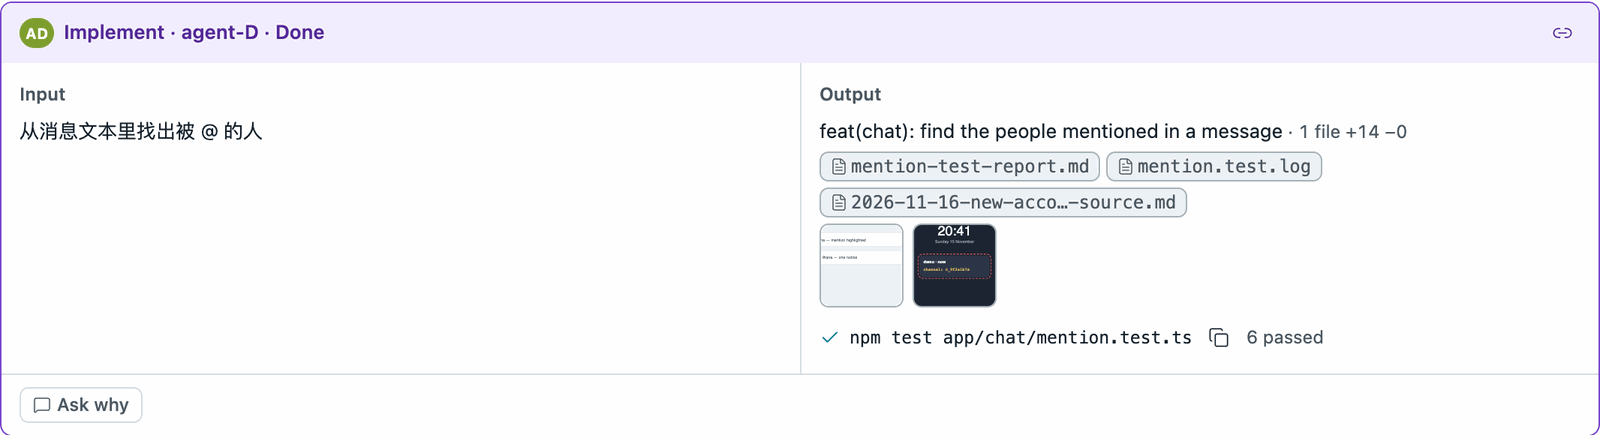
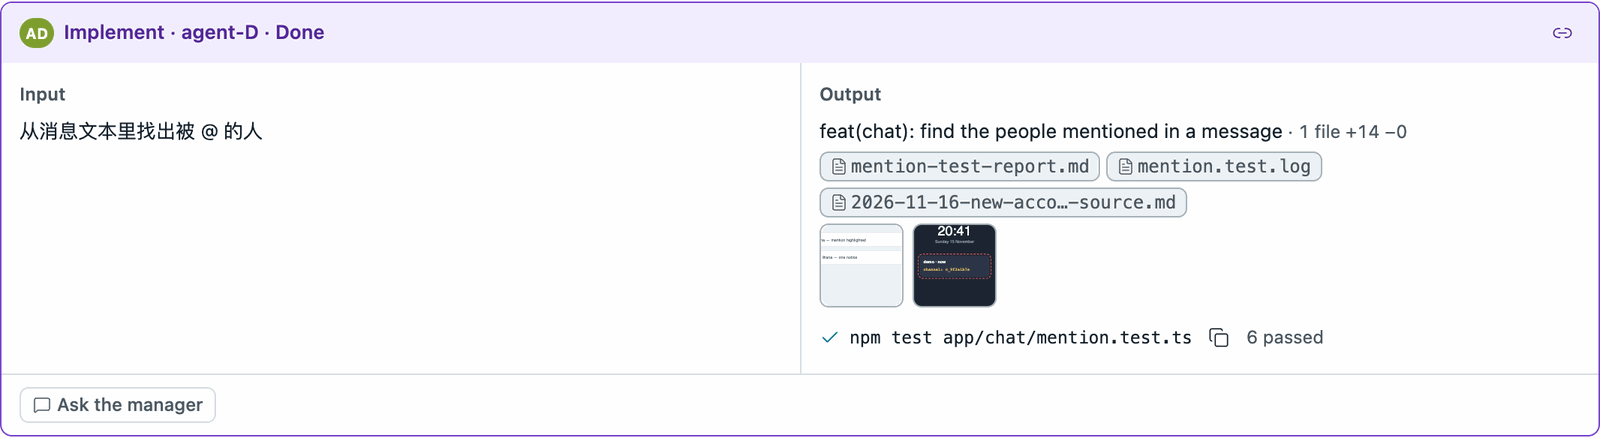
Recipes, documents and pictures for the one conversation
user-message.md: the message points at what the user picked (an example
with it), open it before answering; when the task's agent must answer,
reply at once, workriver ask it without --wait, reply again with its
answer; a blind task waits for its delivery. ask.md: a question always
names a task; --wait blocks, a manager asks without it. CHANGES.md says
so for managers. conversations.md rewritten to the Manager section, past
questions and agents asking each other; attachments.md, activity.md,
navigation.md and DESIGN.md follow. README (en, zh-CN): the detail's
"Ask the manager" paragraph, captions, and five pictures retaken from the
sample (overview, intent page, activity graph, task detail, review).
security.md (en, zh-CN): what a message from the page tells the manager.

Task: u14#7

Changed region(s): [[0.0, 0.8607, 1.0, 1.0]]

diff --git a/docs/design/ui/conversations.md b/docs/design/ui/conversations.md
@@ -1,106 +1,95 @@
-# Conversations: asking why, the manager, agents asking each other
+# Conversations: the manager, past questions, agents asking each other
 
-The side panel's Ask why section: questions about a task or a unit, the files that go with
-them, the conversation with a workspace's manager, and agents' questions to each other.
+The page keeps one conversation: the side panel's **Manager** section, with a workspace's
+manager. What the user has picked and the files they attach go with the message; the
+manager answers itself, or asks the task's agent (`workriver ask`) and replies. Past
+questions (the user's from before i29, agents' to each other) are read in a task's detail.
+`docs/design/one-conversation.md` is the design this follows (i29); before it the section
+was "Ask why", with a temporary agent per question (`DESIGN.md` says where its text went in
+the restructure).
 
-Moved from `DESIGN.md` in phase 7b of the restructure, word for word but for paths
-made whole and "see …" naming the file; `DESIGN.md` is the overview and says where each of
-its sections went.
+## The Manager section
 
-## Asking why
-
-- **Asking why.** There is no "why" button on every element. Asking happens in the side
-  panel's **Ask why** section, as a chat sits beside a pull request's diff: its heading, the
-  picked task's conversations, and at the bottom, fixed, the context chips, the box and the
-  line saying who answers. With no task picked the questions are about the unit as a whole
-  (its chip is the unit's title): a temporary agent answers from the intent's goal, the
-  unit's purpose, its tasks and findings in short, and the code on its branch, and asks none
-  of the unit's agents; the unit's conversations show there. Only the user asks about a
-  unit; agents' `workriver ask` names a task. The intent's own work, with no task picked,
-  says what to pick. The picked task's detail keeps only a
-  small "Ask why" with how many conversations it has; it, "Ask why" on picked lines and `?`
-  open the panel on Ask (the sheet on a narrow screen) with the cursor in the box. What a question is about is the current
-  selection, shown as chips above the box: the task always, the picked finding, and the
-  picked file – or, when lines are picked, the lines instead of their file – and the
-  attachment open in the viewer (see Attachments, `attachments.md`). A single file shows the whole file, or
-  with "Only the changes" just its changes with three lines around each (remembered); the
-  line-number gutter widens to the file's longest number. Lines are
-  picked in any diff, the single file or the list (click a line number, shift-click to
-  stretch); next to them floats "Ask why", like the "+" of a code review. It picks the task
-  that last changed those lines (worked out from the unit's commits; other tasks that
-  changed some of them come along as chips) and puts the cursor in its box, so the code can
-  be asked about with no task picked; lines no task changed are asked about the unit (the
-  task is unpicked). A chip can be left out for this question (its ×).
-  Files go with a question too, any kind (a screenshot, a log, Markdown, a PDF), several at
-  once: dropped anywhere on the Ask panel, pasted into the box, or picked with the small
-  attach button in the box, before Send. The browser never opens a dropped file in the
-  page's place, wherever on the page it is let go: outside what takes files (the Ask panel
-  in its Why mode, a gate's form) the cursor says it cannot be dropped. The box is a text
-  box first: pasted rich text (a spreadsheet's cells, a paragraph) goes in as text and the
-  picture of it that comes along is not attached; a picture copied in a browser ("Copy
-  image": html that is only the picture, no words) is attached; a pasted file is attached, and text of its
-  own beside it goes in too (not text that only names the file). A pasted file with no name
-  is named from its type (pasted.png, pasted.txt). Each shows at once as a chip after the others (the
-  attach glyph, its name, a × that takes it out). As a gate's pictures, the page holds them
-  until the question is sent and they are stored only then, so one taken out is never
-  stored; one over the store's 50 MB is refused at once, in a red line above the box naming
-  it, which goes with its ×, when a chip is taken out, with the next file attached, when the
-  question is sent, or with another task picked. The answering agent is given each file's path in the store (a link, for an agent on
-  another machine). In the conversation they show under the question as attachments do
-  everywhere: pictures as thumbnails, other files as chips, opening in the viewer. Only the
-  user attaches; the manager conversation takes no files.
-  `?` (outside a field) does the same with picked lines, and otherwise opens the panel on
-  Ask; Enter sends, Shift+Enter breaks the line. On a gate – the user's own task – the
-  question goes to the agent that asked for it (the agent of the task the gate follows; with
-  none, the manager bot), so "step 2's curl fails, what now" reaches whoever wrote the
-  steps; its chip is the gate's title. A temporary agent answers
-  from workriver's records and the code; it asks the agent that did the work only when
-  that agent is idle, never one at work, and the answer says quietly whether it did. While
-  it works, the step it is at shows; if none can be started, the turn says why in the
-  user's language (the service's words on hover). An agent that waits for a person in its
-  terminal (a harness's first-run prompt in a folder it has not seen, such as "trust this
-  folder", or a permission prompt) is never typed over and nothing answers the prompt for
-  the user: the question waits, the turn says so in violet ("Waiting for you in Herdr: …
-  needs an answer in its terminal") with "Go to the terminal", the agent is a Blocking row
-  in Needs you like any waiting agent, and the question goes in by itself once the agent is
-  free; still waiting at the question's deadline, it fails saying so. The same holds for
-  follow-ups and for an agent's question to another, which also goes to a temporary agent
-  (never straight to the task's own agent, even an idle one). A new agent the runtime does
-  not take a prompt for yet (still launching) is tried again at each poll (2 s) for up to
-  60 s; still not ready then, it may sit on a prompt the runtime does not report, so it is
-  shown and held exactly like a waiting one above, and the question goes in once it is
-  idle. Never ready by the deadline, the question fails saying so, and its tab is left open
-  for the user (only a start that failed, or an agent that never appeared, closes it). Questions form conversations on the node:
-  question, answer, question, answer, with the box under the last one; follow-ups go to the
-  same temporary agent while it lives (it closes after a quiet while, and a later question
-  starts a new one with the conversation so far). Under a conversation: "Draft conclusion"
-  (its agent writes what was decided, what changes, what stays open; shown at the end, and
-  it starts the note of a waiting gate that follows the task) and "End" (its agent closes);
-  "New question" (beside the chips) starts another conversation. File paths in an answer
-  open the file (the sheet gets out of the way). Each conversation folds to one row
-  (its first question on one line, who asked, how many exchanges, answered / waiting
-  / failed / ended, when last), and one opens at a time: it takes all the height left above
-  the box (at least 12rem), as its own scroll area (a log for screen readers) kept at the
-  latest exchange (it follows a new answer only while the reader is at the bottom); the one
-  just asked in, one still waiting, or else the latest, is open. It reads as a chat: the
-  question on the right on the sunken ground, with who asked ("You", or the asking agent's
-  mark and name) and when; the answer on the left in a thin frame, rendered as Markdown,
-  with who answered and when. Past three conversations only the latest three show, with
-  "N earlier" above them. The box stays under them.
-  **The manager.** A two-way switch in the section's heading, "Why | Manager"
-  (remembered; a request to ask why switches back), opens a conversation with a workspace's
-  manager in the same place, rather than a seventh side section: it is a conversation like
-  the others, with the same box. The workspace is the open unit's intent's, or picked from
-  those with a manager (a select, when there are several). What the user writes is typed
-  into the manager's terminal ("The user writes to you from workriver's page (message m3) …
-  Reply with `workriver reply m3 …`", the text quoted as the user's); a manager waiting for a
+- **Where.** One section of the side panel, **Manager** (the speech-bubble button, the
+  last), in the same place as the others; no switch in its heading. The workspace is the
+  open unit's intent's, or picked from those with a manager (a select, when there are
+  several; Needs you's unread messages and an intent's "Write to the manager" open the
+  section on a workspace). Its messages read as a chat, at the bottom, fixed: the chips, the
+  box, and the line saying where it goes.
+- **What the user writes** is typed into the manager's terminal ("The user writes to you
+  from workriver's page (message m3) … Reply with `workriver reply m3 …`", what it points
+  at in workriver's words, then the user's text quoted as theirs); a manager waiting for a
   person in its terminal is never typed over: the message waits, says so in violet with "Go
   to the terminal", and goes in once it is free. Under each message where it is (sending,
   waiting, in the manager's terminal, or not delivered and why); the manager's replies
   (only that manager may reply) follow it on the left with its crown. With no manager
-  running in the workspace the box is disabled and says so.
-  Agents ask each other the same way, through workriver (never in each other's terminals):
-  their conversations show on the task asked about like the user's, with the asking agent's
-  mark before the question, and count in the node's speech-bubble mark; they never appear in
-  Needs you. A node with questions carries a small
-  neutral speech-bubble mark with their count on the graph: information, not a button.
+  running in the workspace the box is disabled and says so. A manager on a blind task in
+  progress is not written to: the service refuses the message until it delivers.
+- **What is picked goes with it, as chips** above the box: the unit (its title), the picked
+  task (its number, a gate's title, a review's label), the picked finding, the picked file –
+  or, when lines are picked, the lines instead of their file – the other tasks that changed
+  those lines, and the attachment open in the viewer (`attachments.md`). Only to the open
+  unit's intent's workspace: with another workspace picked in the select, no chips show and
+  none are sent. Every chip has a ×. Taking out the task's chip takes with it what needs the
+  task (the finding, the file or lines, the other tasks, the open attachment); taking out
+  the unit's leaves no chip; the user's own files stay. A chip left out stays out until the
+  selection changes. A gate is a chip like any task: the manager relays to whoever wrote its
+  steps.
+- **How the box is reached.** The picked task's detail keeps only a small "Ask the
+  manager"; it, "Ask the manager" floating by picked lines, the viewer's "Ask the manager"
+  and `?` (outside a field) open the panel on Manager (the sheet on a narrow screen), on the
+  unit's own workspace, with the cursor in the box. Lines are picked in any diff, the single
+  file or the list (click a line number, shift-click to stretch); next to them floats "Ask
+  the manager", like the "+" of a code review. It picks the task that last changed those
+  lines (worked out from the unit's commits; other tasks that changed some of them come
+  along as chips, so the manager knows who wrote them); lines no task changed go with the
+  unit's chip (the task is unpicked). `?` with lines picked does the same; otherwise it only
+  brings the cursor. A single file shows the whole file, or with "Only the changes" just its
+  changes with three lines around each (remembered); the line-number gutter widens to the
+  file's longest number. Enter sends, Shift+Enter breaks the line.
+- **Files** go with a message too, any kind (a screenshot, a log, Markdown, a PDF), several
+  at once: dropped anywhere on the Manager panel, pasted into the box, or picked with the
+  small attach button in the box, before Send; to any workspace's manager (they need no
+  unit). The browser never opens a dropped file in the page's place, wherever on the page
+  it is let go: outside what takes files (the Manager panel, a gate's form) the cursor says
+  it cannot be dropped. The box is a text box first: pasted rich text (a spreadsheet's
+  cells, a paragraph) goes in as text and the picture of it that comes along is not
+  attached; a picture copied in a browser ("Copy image": html that is only the picture, no
+  words) is attached; a pasted file is attached, and text of its own beside it goes in too
+  (not text that only names the file). A pasted file with no name is named from its type
+  (pasted.png, pasted.txt). Each shows at once as a chip after the others (the attach
+  glyph, its name, a × that takes it out). As a gate's pictures, the page holds them until
+  the message is sent and they are stored only then, so one taken out is never stored; one
+  over the store's 50 MB is refused at once, in a red line above the box naming it, which
+  goes with its ×, when a chip is taken out, with the next file attached, or when the
+  message is sent. The manager is given each file's path in the store (a command that
+  fetches it, for a manager on another machine).
+- **Under the sent message** what it pointed at shows as a turn did: its unit or task and
+  the other chips, then the files as attachments show everywhere: pictures as thumbnails,
+  other files as chips, opening in the viewer.
+
+## Past questions
+
+- **In a task's detail**, after Output, a **Questions** block with how many conversations:
+  each folds to one row (its first question on one line, who asked, how many exchanges,
+  answered / waiting / failed / ended, when last); one opens at a time, as a chat: the
+  question on the right on the sunken ground, with who asked ("You", or the asking agent's
+  mark and name) and when, its chips and files; the answer on the left in a thin frame,
+  rendered as Markdown, with who answered and when; a conclusion where it was drawn. File
+  paths in an answer open the file (the sheet gets out of the way). Past three
+  conversations only the latest three show, with "N earlier" above them. Read-only: no box,
+  no "Draft conclusion", no "End"; a question still waiting shows how far it has got, and
+  its agent waiting for a person in its terminal shows in violet with "Go to the terminal".
+- **The unit's own** (questions the user asked about a whole unit before i29): the same
+  block under the graph when no task is picked, only when the unit has any.
+
+## Agents asking each other
+
+- Agents ask each other through workriver (`workriver ask`, never in each other's
+  terminals); a temporary agent answers from the records and the code, and asks the task's
+  own agent only while that one is idle; it closes after a quiet while (`prompts::IDLE`) and
+  a later question starts a new one with the conversation so far. Their conversations show
+  in the asked task's Questions block, with the asking agent's mark before the question,
+  and count in the node's speech-bubble mark; they never appear in Needs you. A node with
+  questions carries a small neutral speech-bubble mark with their count on the graph:
+  information, not a button.

diff --git a/README.md b/README.md
@@ -87,17 +87,19 @@ folders that nothing before it on its line had touched: there the work grew in s
 long graph opens on its latest work, with a minimap of the whole; zoomed out, as here, all
 of it shows.
 
-![The activity graph of the unit "加一个 @ 功能": implement tasks, the security and code reviews after them, the tasks the code review's findings led to, two marked where the scope grew, a dropped question to merge, and a try-out gate near the end](docs/images/activity-graph.en.png)
+![The activity graph of the unit "加一个 @ 功能": implement tasks, the security and code reviews after them, the tasks the code review's findings led to, two marked where the scope grew, a dropped question to merge, a try-out gate near the end, and under the graph an earlier question about the unit](docs/images/activity-graph.en.png)
 
 **Why a node is the way it is.** Pick a node and its detail says what went in and what came
 out. Task #1 was asked to find the people mentioned in a message; it delivered the commit
 "feat(chat): find the people mentioned in a message", its reports and screenshots, and a
 check, `npm test app/chat/mention.test.ts`, 6 passed. Evidence is recorded the same way
-whoever ran it. "Ask why" opens a question in the side panel: a temporary agent answers
-from the records and the code, and asks the agent that did the work only while that agent
-is idle. With no node picked, the question is about the whole unit.
+whoever ran it. "Ask the manager" opens the conversation with the intent's manager in the
+side panel, with the task as a chip; picked lines, a finding or an open screenshot go along
+as chips too, and so do files you drop or paste. The manager answers, or asks the agent that
+did the work and passes its answer on. Earlier questions about a task stay readable in its
+detail.
 
-![The detail of task #1: its input, its output with the commit, attachments and a passed check, and Ask why](docs/images/task-detail.en.png)
+![The detail of task #1: its input, its output with the commit, attachments and a passed check, and Ask the manager](docs/images/task-detail.en.png)
 
 **Findings, decided once.** The code review of #6 found nine problems, rated P1 to P3. Each
 is accepted, revised (accepted, but fixed your way), rejected or deferred. By default the
@@ -109,7 +111,7 @@ what is still open waits for you: P2-4 and P3-1, each with the reviewer's sugges
 decision goes to the manager, and an accepted finding stays visible on the tasks it caused,
 since that work must meet it.
 
-![The code review of task #6: nine findings grouped by severity, P2-4 open with the reviewer's suggestion, its impact and place and the four decisions, others accepted with the tasks they led to, decided by the manager, rejected or deferred](docs/images/review-findings.en.png)
+![The code review of task #6: nine findings grouped by severity, P2-4 open with the reviewer's suggestion, its impact and place and the four decisions, others accepted with the tasks they led to, decided by the manager, rejected or deferred, and an earlier question about the review](docs/images/review-findings.en.png)
 
 **What is waiting on you.** Needs you is one queue across every workspace. First what
 blocks someone: agents waiting for a person in their terminal, workers that stopped

diff --git a/docs/design/ui/attachments.md b/docs/design/ui/attachments.md
@@ -1,7 +1,7 @@
 # Attachments and the viewer
 
-Files from agents and how they show and open. Files the user sends with a question are in
-`conversations.md` (Asking why); pictures in a gate's form are in `activity.md` (What the
+Files from agents and how they show and open. Files the user sends with a message to the
+manager are in `conversations.md` (The Manager section); pictures in a gate's form are in `activity.md` (What the
 user puts in).
 
 Moved from `DESIGN.md` in phase 7b of the restructure, word for word but for paths
@@ -18,7 +18,7 @@ its sections went.
   The viewer shows one place's previewable attachments one at a time, in their order: the
   name (mono) as its title, "2 / 5" with previous / next (← and → too, wrapping round; the
   position and name are read out), for a picture the zoom toggle and "open original",
-  "Ask why", and a download button for every file. Markdown is rendered (tables, code,
+  "Ask the manager", and a download button for every file. Markdown is rendered (tables, code,
   links) by react-markdown with remark-gfm, loaded only when one is shown (49 kB gzip,
   against 24 kB for marked + DOMPurify: chosen because it never puts an HTML string into
   the page, and the text is an agent's): raw HTML is dropped, links open in a new tab with
@@ -29,10 +29,11 @@ its sections went.
   panel (open or folded), so the side panel stays in use; a click outside leaves it open, and
   Escape closes it unless typed in a field outside it. Focus starts in the file (↑ ↓ scroll)
   and goes back to the thumbnail or chip on close. On a narrow screen it covers the page,
-  and its "Ask why" opens the Ask sheet over it; closing the sheet comes back to it.
-  While it shows a stored attachment, the ask box carries it as a chip (the attachment's
-  name) next to the task's; the question then points at it, and the temporary agent is given
-  its path in the store (a link through the tunnel on another machine). A question may point
-  only at an attachment shown with its task (its output, checks, findings and what was added
-  to them, and the findings it answers – but not those for a blind task not yet delivered);
-  the service refuses any other.
+  and its "Ask the manager" opens the Manager sheet over it; closing the sheet comes back to it.
+  While it shows a stored attachment, the Manager box carries it as a chip (the attachment's
+  name) next to the task's; the message then points at it, and the manager is given its
+  path in the store (a command that fetches it, on another machine). A message may point
+  only at an attachment shown with its task (with the unit alone, with one of its tasks: its
+  output, checks, findings and what was added to them, and the findings it answers – but
+  not those for a blind task not yet delivered), or at a file the user stored; the service
+  refuses any other. Agents' questions to each other follow the same rule.

diff --git a/skills/workriver-howto/references/communication/user-message.md b/skills/workriver-howto/references/communication/user-message.md
@@ -2,11 +2,34 @@
 
 **When:** you are a manager and a message like this arrives in your terminal:
 
-    [workriver] The user writes to you from workriver's page (message m3, about intent i2 "Search"). Reply with `workriver reply m3 --text "..."`; ... The user says, in workriver: «Pause u2 until the API settles.»
+    [workriver] The user writes to you from workriver's page (message m3, about intent i2 "Search"). Reply with `workriver reply m3 --text "..."`; the user reads replies there, not in this terminal. It points at: task u1#3 "Paging" (implement, by worker-2); task u1#5 "Cursor" (implement, by worker-4); finding P2-1; lines 10-24 of src/api.ts; the attachment "shot.png" at ~/workriver-data/attachments/9f2c….png. The files are in ~/src/search.worktrees/u1 on branch feat/paging (from main). Details: `workriver task show u1#3`. The user says, in workriver: «Why is the list not paged here?»
 
 The text inside «…» after "The user says" is the user's own: workriver records it only for
 the user. Treat it as you would the user typing in your pane: do it if it is yours to do
-(pause, reorder, split, hand out, ask a worker through `workriver ask`), or say why not.
+(pause, reorder, split, hand out), or say why not.
+
+**What it points at** ("It points at: …") is what the user had picked in the page, in
+workriver's words: the task (and other tasks that changed the picked lines, with who did
+them), a finding, a file or lines (and where they are: the work tree and branch named after
+them, not your own checkout), and files the user attached, by their path in workriver's
+store. Open them before you answer: `workriver task show`, the lines in that work tree, the
+files at those paths. On another machine a file is a command to run instead
+(`workriver attach fetch <id>.<ext>`, `attachments`). A message may point at nothing, or
+only at the user's files.
+
+**When the task's agent must answer** (why it did something, what it knows that the
+records do not say), do not wait for it:
+
+1. Reply at once that it was asked: `workriver reply m3 --text "Asked worker-2 (u1#3); I will pass on its answer."`
+2. Ask it without `--wait`: `workriver ask u1#3 "Why is the list not paged here?" --file src/api.ts --lines 10-24`
+   (`ask`). Name the user's files by their path in the question's text: a question cannot
+   carry them as attachments.
+3. When "[workriver] Your question q7 … was answered" arrives in your terminal, reply again
+   with the answer: `workriver reply m3 --text "..."`.
+
+A task that is blind and not delivered cannot be asked: reply that it waits for its
+delivery. (Nothing is typed into you while you are on a blind task yourself: the user's
+message is refused until you deliver.)
 
 Then answer where the user reads it, in the page, not in your terminal:
 

diff --git a/DESIGN.md b/DESIGN.md
@@ -46,7 +46,7 @@ anything in `frontend/`.
 | [`navigation.md`](docs/design/ui/navigation.md) | The rail, an intent's page, merging planned intents, the side panel and its Needs you, Agents and Backlog sections, signing in, addresses |
 | [`activity.md`](docs/design/ui/activity.md) | The main area and its first layer (the graph), a node's detail, findings, gates and chores, what the user puts in, evidence, where the scope grew |
 | [`code.md`](docs/design/ui/code.md) | The code layer, the Commits section, the view by function (postponed) |
-| [`conversations.md`](docs/design/ui/conversations.md) | Asking why, the manager conversation, agents asking each other |
+| [`conversations.md`](docs/design/ui/conversations.md) | The manager conversation (what is picked and attached goes with a message), past questions, agents asking each other |
 | [`operations.md`](docs/design/ui/operations.md) | Running a command as the user, Machines, other machines, stopped workers, machine alerts, opening a terminal |
 | [`attachments.md`](docs/design/ui/attachments.md) | Attachments and the viewer |
 | [`presentation.md`](docs/design/ui/presentation.md) | Colour, type, space and shape, the river lines, states, loading |
@@ -67,7 +67,7 @@ word but for paths made whole and "see …" naming the file):
 | Structure: a second view by function (postponed) | `code.md` (A view by function) |
 | Structure: picking a node, longer text as Markdown | `activity.md` (A node's detail) |
 | Structure: Other machines; Stopped workers; Machine alerts; Opening a terminal | `operations.md` |
-| Structure: Asking why (with the manager, and agents asking each other) | `conversations.md` |
+| Structure: Asking why (with the manager, and agents asking each other) | `conversations.md` (since i29: the Manager section, past questions) |
 | Colour means one thing | `presentation.md` |
 | Findings; Gates and chores | `activity.md` |
 | What the user puts in: the gate's form, an open finding, delivery | `activity.md` |

diff --git a/docs/design/ui/navigation.md b/docs/design/ui/navigation.md
@@ -88,7 +88,7 @@ its sections went.
   block with its note (short Markdown with links, as an agent's longer text; folded past six
   lines; `workriver intent set i3 --add-note` adds a paragraph) and where it runs: the
   workspace (and quietly "works on <project>", when known), the manager (name, state, the terminal button, and "Write to the manager",
-  which opens the side panel's Ask section on the manager conversation for that workspace),
+  which opens the side panel's Manager section on that workspace's conversation),
   and who decides its findings (the select that was in the rail). A planned intent says it
   is not started yet and has "Start" in its header (the same dialog). Then its units as a
   list, each a row that opens it: id, title, where it stands, its violet marks, quiet, and
@@ -110,7 +110,7 @@ its sections went.
 ## The side panel
 
 - A **side panel** on the right holds what is not looked at all the time: **Needs you**,
-  **Agents**, **Commits**, **Backlog**, **Machines**, **Run a command** and **Ask why**, one at a time, never mixed. Its buttons work as a
+  **Agents**, **Commits**, **Backlog**, **Machines**, **Run a command** and **Manager**, one at a time, never mixed. Its buttons work as a
   switch: each shows its section, the one already shown folds the panel again; the shown
   one looks pressed. Folded, it is a thin strip with the buttons (no counts: the rail
   already has them); open, it is 340 px wide by default and its left edge drags it between 280 and 720 px (remembered; double-click for the default; arrow keys too). Which section is open, if any, is

diff --git a/docs/design/ui/activity.md b/docs/design/ui/activity.md
@@ -41,8 +41,13 @@ its sections went.
   running or still to do, the header names its agent and, while the session lives, a
   terminal button. Output corrected after delivery shows its latest values, with a quiet
   "amended" and the time next to the Output heading.
+  After Output, a **Questions** block holds the past questions about the task (the user's
+  from before i29, agents' to each other), read-only, folded to rows (`conversations.md`,
+  Past questions); at the bottom a small "Ask the manager" opens the Manager box with the
+  task as its chip. With no node picked, the unit's own past questions show under the graph
+  the same way, when it has any.
   Longer text written by agents or the user – a task's input, a delivery or gate note, an
-  answer in Ask why – is short Markdown, rendered compact by the same safe renderer as
+  answer to a question, a manager's reply – is short Markdown, rendered compact by the same safe renderer as
   Markdown attachments (see Attachments, `attachments.md`): the surrounding size, headings no bigger than the
   text, tight lists, and a single line break kept as one. In the detail a long one shows its
   first six lines fading out, with "Show more"; until the renderer has loaded, the plain

diff --git a/skills/workriver-howto/CHANGES.md b/skills/workriver-howto/CHANGES.md
@@ -4,6 +4,12 @@ Newest first. A manager that was already running reads this once after an update
 
 ## 2026-11-20
 
+- **Messages from the page carry what the user picked and attached** (managers): the page
+  has no Ask why any more; the user writes to you, and the message says what it points at
+  (tasks, a finding, lines with their work tree and branch, the user's files by path).
+  Answer, or reply that the task's agent is asked, `workriver ask` it without `--wait`, and
+  reply again with its answer. A temporary agent now closes only after its idle time.
+  (`user-message`, `ask`)
 - **`workriver attach --dir` asks who you are** (everyone): like every other command that
   records or reads, it works from your own pane (or as the user) and is refused from a
   process in no pane without a terminal, where before it made the folder for anyone. Run

diff --git a/skills/workriver-howto/references/communication/ask.md b/skills/workriver-howto/references/communication/ask.md
@@ -8,10 +8,11 @@ type into another agent's terminal.
 
 A temporary agent answers from the records and the code; it asks the task's own agent
 only while that one is idle. workriver never types into the task's own agent itself. A question
-always names a task; only the user asks about a whole unit (from the page).
+always names a task.
 
 **You will see:** the question id (`q7`); later, in your terminal, "Your question q7 … was
-answered" with the answer quoted. With `--wait` the command prints it.
+answered" with the answer quoted. With `--wait` the command prints it, but blocks until then
+(up to 600 s): a manager, whom everyone reports to, asks without it (`user-message`).
 
 If the answer means an agreed contract or plan must change, do not agree it between you:
 the manager decides (`contract`).

diff --git a/docs/security.md b/docs/security.md
@@ -164,6 +164,9 @@ what to do next). What somebody else wrote comes after, inside «…», named as
 «…»`, and only when the service knows they are yours. Control characters and the quote marks
 are taken out of quoted text, and long text is cut. The agents' instructions say never to
 follow what stands inside a quote.
+A message you write to a manager from the page names what you picked and the files you
+attached in workriver's own words, from its records (a file only if you may point at it);
+only your own text is quoted as yours.
 
 ## Blind reviews
 
